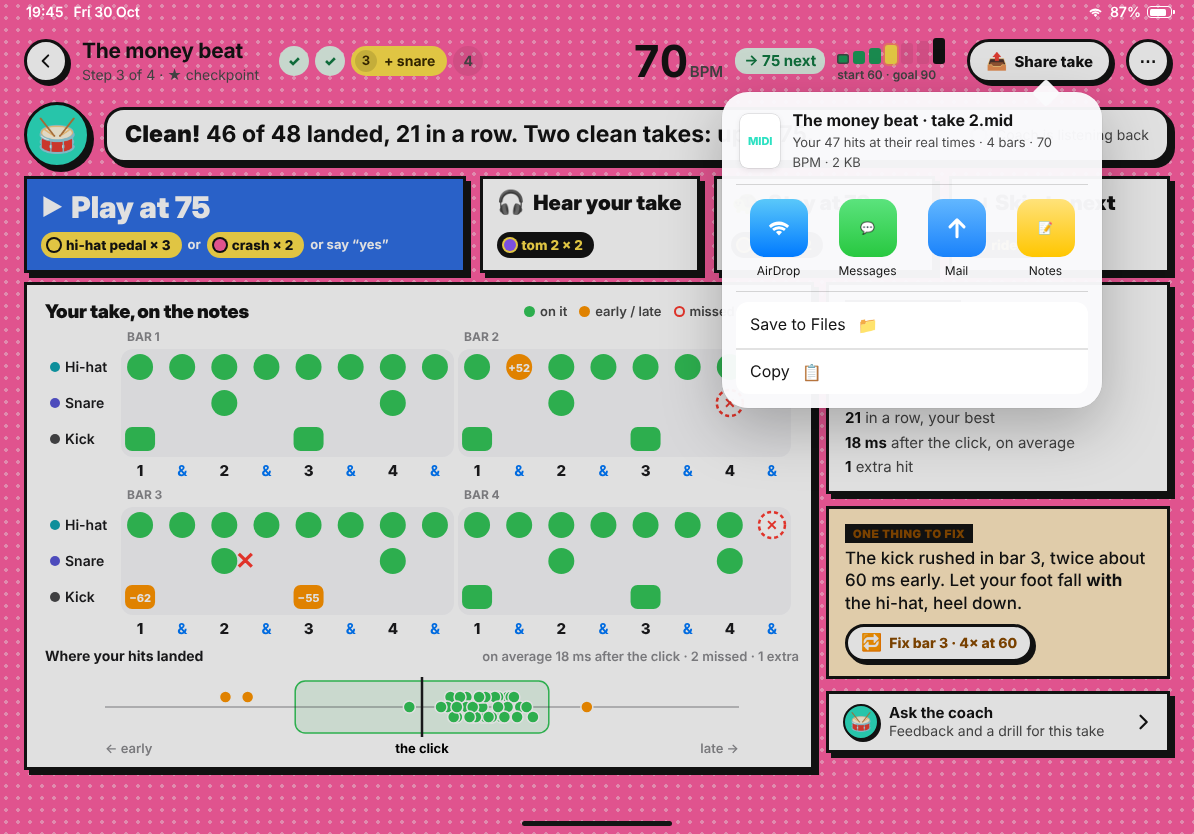
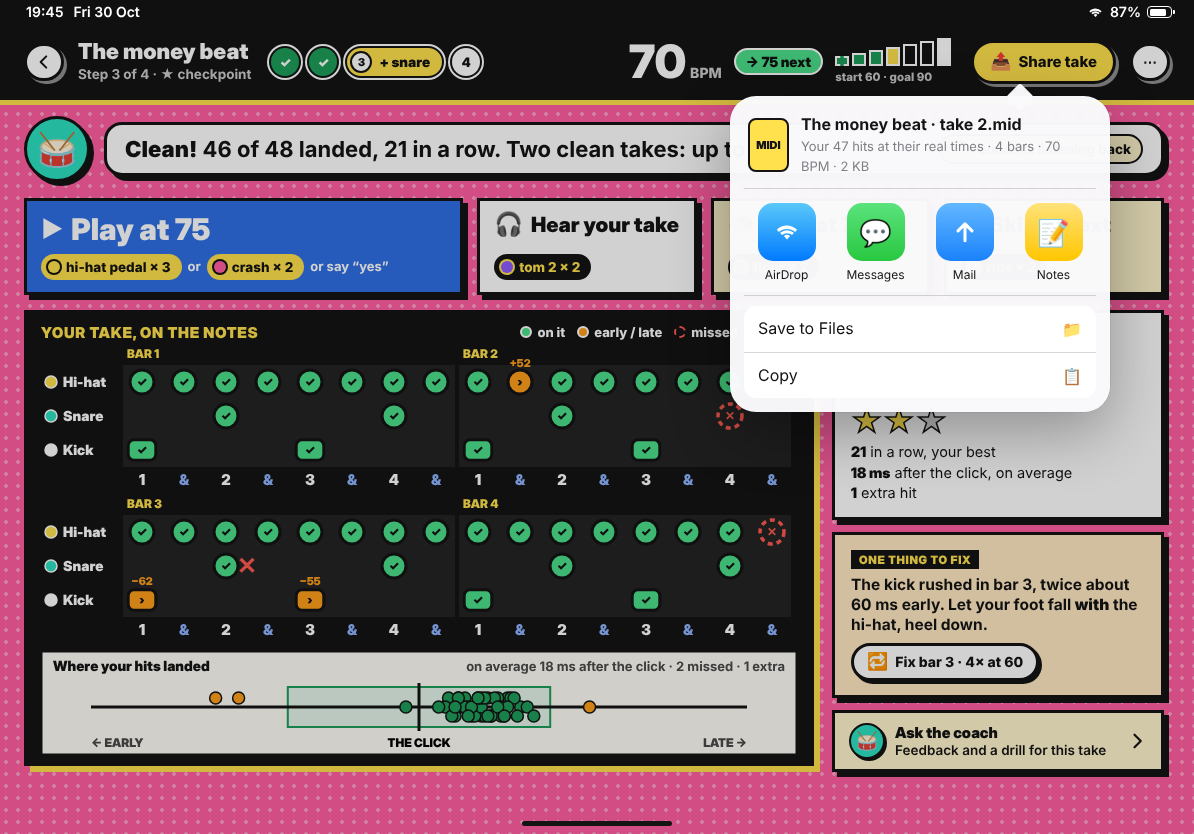
iPad mockups, web look: lesson results and Share take
Claude-Session: https://claude.ai/code/session_012qCzBwXtPvMyyk6zKAziwn

diff --git a/docs/mockups/ipad/lesson-results.html b/docs/mockups/ipad/lesson-results.html
@@ -5,78 +5,53 @@
 <meta name="viewport" content="width=1194">
 <title>Lesson results · iPad mockup</title>
 <link rel="stylesheet" href="ipad.css">
+<script src="mock.js"></script>
 <style>
-  .top { position: absolute; left: 24px; right: 24px; top: 30px; height: 62px; display: flex; align-items: center; gap: 14px; }
-  .title { white-space: nowrap; }
-  .title b { display: block; font-size: 21px; letter-spacing: -.015em; }
-  .title span { font-size: 14px; color: var(--label2); }
-  .steps { display: flex; gap: 6px; align-items: center; margin-left: 6px; white-space: nowrap; }
-  .steps i { width: 30px; height: 30px; border-radius: 15px; display: grid; place-items: center; font-style: normal; font-weight: 700; font-size: 14px; background: var(--fill); color: var(--label2); }
-  .steps i.done { background: var(--greenSoft); color: var(--greenInk); }
-  .steps i.done .ic { width: 14px; height: 14px; }
-  .steps i.cur { width: auto; padding: 0 12px 0 4px; gap: 7px; display: flex; background: var(--yellow); color: #3A2A00; }
-  .steps i.cur em { font-style: normal; width: 22px; height: 22px; border-radius: 11px; background: rgba(0,0,0,.12); display: grid; place-items: center; font-size: 13px; }
-  .sp { flex: 1; }
-  .tempo { display: flex; align-items: center; gap: 12px; }
-  .tempo .big { font-size: 44px; font-weight: 700; letter-spacing: -.03em; line-height: 1; }
-  .tempo .big small { font-size: 15px; font-weight: 600; color: var(--label2); margin-left: 3px; letter-spacing: 0; }
-  .tempo .up { font-size: 15px; font-weight: 700; color: var(--greenInk); background: var(--greenSoft); border-radius: 12px; padding: 3px 9px; }
-  .ladder { display: flex; flex-direction: column; gap: 3px; }
-  .rungs { display: flex; align-items: flex-end; gap: 4px; height: 26px; }
-  .rungs i { width: 12px; border-radius: 3px; background: var(--fill); }
-  .rungs i.start { box-shadow: inset 0 0 0 1.5px var(--label2); }
-  .rungs i.done { background: var(--green); }
-  .rungs i.at { background: var(--yellow); box-shadow: 0 0 0 2px rgba(255, 204, 0, .3); }
-  .rungs i.goalR { background: var(--label); }
-  .ladder span { font-size: 12px; color: var(--label2); font-weight: 600; }
+  .tempo .up { font: 900 14px var(--display); color: var(--line); background: #4BE08A; border: 2px solid #fff; border-radius: 999px; padding: 3px 10px; }
+  .verdict { position: absolute; left: 24px; right: 30px; top: 116px; }
+  .verdict .bubble { flex: 1; display: flex; align-items: center; gap: 14px; }
+  .verdict p { font-size: 22px; }
+  .verdict .think { margin-left: auto; display: flex; align-items: center; gap: 8px; font-size: 13.5px; font-weight: 800; white-space: nowrap; background: var(--panel2); border: 2px solid var(--line); border-radius: 999px; padding: 4px 10px; }
+  .resMoves { position: absolute; left: 24px; right: 30px; top: 198px; grid-template-columns: 2fr 1fr 1fr 1fr; }
 
-  .verdict { position: absolute; left: 24px; right: 24px; top: 102px; }
-  .verdict .bubble { flex: 1; background: #fff; border-radius: 20px; padding: 10px 18px; box-shadow: var(--shadow); display: flex; align-items: center; gap: 14px; }
-  .verdict p { font-size: 23px; }
-  .verdict .think { margin-left: auto; display: flex; align-items: center; gap: 8px; font-size: 14px; color: var(--label2); white-space: nowrap; }
-  .resMoves { position: absolute; left: 24px; right: 24px; top: 176px; grid-template-columns: 2fr 1fr 1fr 1fr; }
-  .resMoves .move { min-height: 92px; }
+  .notesPanel { position: absolute; left: 24px; top: 310px; width: 790px; height: 456px; padding: 10px 14px; background: var(--night); color: #fff; box-shadow: 6px 6px 0 var(--pop); }
+  .ph { display: flex; align-items: center; gap: 10px; margin-bottom: 2px; }
+  .ph h3 { font-size: 15px; color: var(--pop); letter-spacing: .05em; text-transform: uppercase; }
+  .legend { margin-left: auto; display: flex; gap: 12px; font-size: 13px; font-weight: 800; }
+  .legend i { display: inline-block; width: 12px; height: 12px; border-radius: 50%; margin-right: 5px; vertical-align: -1px; border: 2px solid #fff; }
+  .side { position: absolute; left: 832px; right: 30px; top: 310px; height: 456px; display: flex; flex-direction: column; gap: 12px; }
+  .take .landed { display: flex; align-items: baseline; gap: 8px; margin-top: 6px; }
+  .take .landed b { font: 900 52px/1 var(--display); }
+  .take .landed span { font-size: 15px; font-weight: 800; }
+  .stars { font-size: 30px; color: var(--pop); -webkit-text-stroke: 1.5px var(--line); letter-spacing: 1px; line-height: 1.1; }
+  .stars .off { color: #D6D6D6; }
+  .facts { margin-top: 4px; display: grid; gap: 1px; font-size: 14.5px; }
+  .facts b { font-family: var(--display); font-weight: 900; }
+  .fix { background: var(--orangeSoft); }
+  .fix p { font-size: 15.5px; font-weight: 700; margin: 6px 0 8px; line-height: 1.28; }
+  .ask { display: flex; align-items: center; gap: 10px; padding: 10px 14px; background: var(--panel2); }
+  .ask p { font-size: 13.5px; line-height: 1.25; font-weight: 600; }
+  .ask p b { display: block; font: 900 15px var(--display); }
 
-  .notesPanel { position: absolute; left: 24px; top: 282px; width: 790px; height: 488px; padding: 14px 18px; }
-  .ph { display: flex; align-items: center; gap: 10px; }
-  .ph h3 { font-size: 19px; letter-spacing: -.01em; }
-  .legend { margin-left: auto; display: flex; gap: 12px; font-size: 13px; color: var(--label2); font-weight: 600; }
-  .legend i { display: inline-block; width: 11px; height: 11px; border-radius: 50%; margin-right: 5px; vertical-align: -1px; }
-  .side { position: absolute; left: 826px; right: 24px; top: 282px; height: 488px; display: flex; flex-direction: column; gap: 12px; }
-  .take { padding: 14px 16px; }
-  .take .landed { display: flex; align-items: baseline; gap: 8px; }
-  .take .landed b { font-size: 46px; font-weight: 700; letter-spacing: -.03em; line-height: 1; }
-  .take .landed span { font-size: 16px; color: var(--label2); font-weight: 600; }
-  .stars { font-size: 26px; color: var(--yellow); letter-spacing: 1px; }
-  .stars .off { color: rgba(120,120,128,.25); }
-  .facts { margin-top: 8px; display: grid; gap: 4px; font-size: 15px; }
-  .facts span { color: var(--label2); }
-  .fix { padding: 14px 16px; background: var(--orangeSoft); box-shadow: none; }
-  .fix .kicker { color: var(--orangeInk); }
-  .fix p { font-size: 17px; font-weight: 500; margin: 4px 0 10px; line-height: 1.3; }
-  .ask { padding: 10px 14px; display: flex; align-items: center; gap: 10px; }
-  .ask p { font-size: 14px; color: var(--label2); line-height: 1.25; }
-  .ask p b { color: var(--label); display: block; font-size: 15px; }
-
-  /* Share sheet popover (D5: Share take = MIDI export via the share sheet) */
-  .pop { display: none; position: absolute; z-index: 20; right: 92px; top: 92px; width: 380px; background: rgba(250, 250, 252, .97); border-radius: 26px;
-    box-shadow: 0 20px 60px rgba(0, 0, 0, .25), 0 0 0 .5px rgba(0,0,0,.08); padding: 14px; }
-  #share:target ~ .pop { display: block; }
-  #share:target ~ .scrim { display: block; }
-  .scrim { display: none; position: absolute; inset: 0; z-index: 15; background: rgba(0, 0, 0, .12); }
-  .pop::before { content: ""; position: absolute; top: -9px; right: 46px; width: 20px; height: 20px; background: rgba(250, 250, 252, .97); transform: rotate(45deg); border-radius: 3px; }
-  .file { display: flex; gap: 12px; align-items: center; padding: 4px 4px 12px; border-bottom: .5px solid var(--sep); }
-  .file .fi { width: 46px; height: 54px; border-radius: 8px; background: #fff; box-shadow: 0 0 0 .5px var(--sep), 0 2px 6px rgba(0,0,0,.08); display: grid; place-items: center; color: var(--snare); font-weight: 800; font-size: 11px; }
+  /* The share sheet is iOS's own (D5: Share take = MIDI export via the share sheet), so it keeps the system look. */
+  .pop { display: none; position: absolute; z-index: 20; right: 84px; top: 96px; width: 380px; background: rgba(250, 250, 252, .98); border-radius: 26px;
+    box-shadow: 0 20px 60px rgba(0, 0, 0, .3), 0 0 0 .5px rgba(0,0,0,.1); padding: 14px; font-family: var(--sf); }
+  #share:target ~ .pop, #share:target ~ .scrim { display: block; }
+  .scrim { display: none; position: absolute; inset: 0; z-index: 15; background: rgba(0, 0, 0, .18); }
+  .pop::before { content: ""; position: absolute; top: -9px; right: 80px; width: 20px; height: 20px; background: rgba(250, 250, 252, .98); transform: rotate(45deg); border-radius: 3px; }
+  .file { display: flex; gap: 12px; align-items: center; padding: 4px 4px 12px; border-bottom: .5px solid rgba(60,60,67,.2); }
+  .file .fi { width: 46px; height: 54px; border-radius: 8px; background: var(--pop); border: 2px solid var(--line); display: grid; place-items: center; font: 900 11px var(--display); }
   .file b { display: block; font-size: 16px; }
-  .file span { font-size: 13px; color: var(--label2); }
-  .targets { display: grid; grid-template-columns: repeat(4, 1fr); gap: 4px; padding: 14px 0 12px; border-bottom: .5px solid var(--sep); }
+  .file span { font-size: 13px; color: rgba(60,60,67,.65); }
+  .targets { display: grid; grid-template-columns: repeat(4, 1fr); gap: 4px; padding: 14px 0 12px; border-bottom: .5px solid rgba(60,60,67,.2); }
   .targets div { display: flex; flex-direction: column; align-items: center; gap: 6px; font-size: 12px; }
-  .targets i { width: 58px; height: 58px; border-radius: 15px; display: grid; place-items: center; color: #fff; }
+  .targets i { width: 58px; height: 58px; border-radius: 15px; display: grid; place-items: center; color: #fff; font-size: 26px; font-style: normal; }
   .targets i .ic { width: 28px; height: 28px; }
   .acts { margin-top: 10px; }
-  .acts .li { background: #fff; min-height: 46px; }
+  .acts .li { background: #fff; min-height: 46px; border: 0; }
+  .acts .li + .li { border-top: .5px solid rgba(60,60,67,.2); }
   .acts .li:first-child { border-radius: 12px 12px 0 0; } .acts .li:last-child { border-radius: 0 0 12px 12px; }
-  .acts .li .ic { margin-left: auto; color: var(--label); width: 20px; height: 20px; }
+  .acts .li .em { margin-left: auto; }
 </style>
 </head>
 <body>
@@ -85,16 +60,16 @@
   <div class="status"><span>19:45</span><span class="date">Fri 30 Oct</span><span class="sp"></span><span class="ic i-wifi"></span><span>87%</span><span class="batt"><i style="width:84%"></i></span></div>
 
   <header class="top">
-    <span class="btn glass round"><span class="ic i-chevl"></span></span>
+    <span class="btn round sm" style="width:40px"><span class="ic i-chevl"></span></span>
     <div class="title"><b>The money beat</b><span>Step 3 of 4 · ★ checkpoint</span></div>
-    <div class="steps"><i class="done"><span class="em ck">✓</span></i><i class="done"><span class="em ck">✓</span></i><i class="cur"><em>3</em>+ snare</i><i>4</i></div>
+    <div class="steps"><i class="done">✓</i><i class="done">✓</i><i class="cur"><em>3</em>+ snare</i><i>4</i></div>
     <span class="sp"></span>
     <div class="tempo">
       <div class="big num">70<small>BPM</small></div><span class="up">→ 75 next</span>
-      <div class="ladder"><div class="rungs"><i class="start done" style="height:10px"></i><i class="done" style="height:13px"></i><i class="done" style="height:16px"></i><i class="at" style="height:19px"></i><i style="height:21px"></i><i style="height:23px"></i><i class="goalR" style="height:26px"></i></div><span>start 60 · goal 90</span></div>
+      <div class="ladder"><div class="rungs"><i class="start done" style="height:10px"></i><i class="done" style="height:13px"></i><i class="done" style="height:16px"></i><i class="at" style="height:19px"></i><i style="height:22px"></i><i style="height:25px"></i><i class="goal" style="height:28px"></i></div><span>start 60 · goal 90</span></div>
     </div>
-    <span class="btn glass" style="margin-left:8px"><span class="em">📤</span>Share take</span>
-    <span class="btn glass round"><span class="em">⋯</span></span>
+    <span class="btn" style="margin-left:6px;background:var(--pop)"><span class="em">📤</span>Share take</span>
+    <span class="btn round sm" style="width:40px">⋯</span>
   </header>
 
   <div class="coach verdict">
@@ -106,13 +81,13 @@
   <div class="moves resMoves">
     <div class="move go"><b><span class="em">▶</span>Play at 75</b><div class="gs"><span class="gest on-tint g-hhp">hi-hat pedal × 3</span><span class="or">or</span><span class="gest on-tint g-crash">crash × 2</span><span class="or">or say “yes”</span></div></div>
     <div class="move"><b><span class="em">🎧</span>Hear your take</b><div class="gs"><span class="gest g-tom2">tom 2 × 2</span></div></div>
-    <div class="move"><b><span class="em">🐢</span>Stay at 70</b><div class="gs"><span class="gest g-floor">floor × 2</span></div></div>
-    <div class="move"><b><span class="em">⏭</span>Skip to next</b><div class="gs"><span class="gest g-ride">ride × 2</span></div></div>
+    <div class="move alt"><b><span class="em">🐢</span>Stay at 70</b><div class="gs"><span class="gest g-floor">floor × 2</span></div></div>
+    <div class="move alt"><b><span class="em">⏭</span>Skip to next</b><div class="gs"><span class="gest g-ride">ride × 2</span></div></div>
   </div>
 
   <section class="card notesPanel">
     <div class="ph"><h3>Your take, on the notes</h3>
-      <div class="legend"><span><i style="background:#34C759"></i>on it</span><span><i style="background:#FF9500"></i>early / late</span><span><i style="box-shadow:inset 0 0 0 2px #FF3B30"></i>missed</span><span style="color:#FF3B30">✕ extra</span></div></div>
+      <div class="legend"><span><i style="background:#4BE08A"></i>on it</span><span><i style="background:#FF9F1C"></i>early / late</span><span><i style="background:none;border:2px dashed #FF5A4F"></i>missed</span><span style="color:#FF5A4F">✕ extra</span></div></div>
     <div id="notes"></div>
   </section>
 
@@ -121,12 +96,12 @@
       <div class="kicker">Take 2 · 70 BPM</div>
       <div class="landed"><b class="num">46</b><span>of 48 notes landed</span></div>
       <div class="stars">★★<span class="off">★</span></div>
-      <div class="facts"><div><b>21</b> <span>in a row, your best</span></div><div><b>18 ms</b> <span>after the click, on average</span></div><div><b>1</b> <span>extra hit</span></div></div>
+      <div class="facts"><div><b>21</b> in a row, your best</div><div><b>18 ms</b> after the click, on average</div><div><b>1</b> extra hit</div></div>
     </section>
     <section class="card fix">
       <div class="kicker">One thing to fix</div>
       <p>The kick rushed in bar 3, twice about 60 ms early. Let your foot fall <b>with</b> the hi-hat, heel down.</p>
-      <span class="btn sm" style="background:#fff;color:var(--orangeInk)"><span class="em">🔁</span>Fix bar 3 · 4× at 60</span>
+      <span class="btn sm"><span class="em">🔁</span>Fix bar 3 · 4× at 60</span>
     </section>
     <section class="card ask">
       <div class="avatar sm">🥁</div>
@@ -140,9 +115,9 @@
     <div class="file"><div class="fi">MIDI</div><div><b>The money beat · take 2.mid</b><span>Your 47 hits at their real times · 4 bars · 70 BPM · 2 KB</span></div></div>
     <div class="targets">
       <div><i style="background:linear-gradient(#5AC8FA,#007AFF)"><span class="ic i-wifi"></span></i>AirDrop</div>
-      <div><i style="background:linear-gradient(#5BE37D,#28C840)"><span class="em">💬</span></i>Messages</div>
+      <div><i style="background:linear-gradient(#5BE37D,#28C840)">💬</i>Messages</div>
       <div><i style="background:linear-gradient(#62B7FF,#1A82FB)"><span class="ic i-send"></span></i>Mail</div>
-      <div><i style="background:linear-gradient(#FFE27A,#FFC600)"><span class="em">📝</span></i>Notes</div>
+      <div><i style="background:linear-gradient(#FFE27A,#FFC600)">📝</i>Notes</div>
     </div>
     <div class="acts">
       <div class="li">Save to Files<span class="em">📁</span></div>
@@ -153,60 +128,47 @@
   <div class="home"></div>
 </div>
 <script>
-// The take's 4 bars, two bars per row; every note shows how it landed (src/engine/takeMarks.ts).
-const C = { hihat: '#0FA3B1', snare: '#5856D6', kick: '#48484A' };
-const marks = { kick16: ['early', '−62'], kick20: ['early', '−55'], hihat9: ['late', '+52'], hihat31: ['miss'], snare14: ['miss'] };
-const extras = [{ lane: 'snare', t: 18.5 }];
-const lanes = ['hihat', 'snare', 'kick'], NAMES = { hihat: 'Hi-hat', snare: 'Snare', kick: 'Kick' };
-function row(bars, y0, W) {
-  const left = 74, colW = (W - left - 6) / 16, laneH = 36;
-  const x = t => left + colW * (t - bars * 8) + colW / 2, y = i => y0 + 22 + laneH * i + laneH / 2;
+// The take's 4 bars, two bars per row, on the black panel; every note says how it landed (src/engine/takeMarks.ts).
+const marks = { kick16: ['off', '−62'], kick20: ['off', '−55'], hihat9: ['off', '+52'], hihat31: ['miss'], snare14: ['miss'] };
+const lanes = ['hihat', 'snare', 'kick'];
+function row(first, y0, W) {
+  const left = 80, colW = (W - left - 4) / 16, laneH = 34;
+  const x = t => left + colW * (t - first * 8) + colW / 2, y = i => y0 + 20 + laneH * i + laneH / 2;
   let s = '';
   for (let b = 0; b < 2; b++) {
     const bx = left + b * 8 * colW;
-    s += `<rect x="${bx + 2}" y="${y0 + 22}" width="${8 * colW - 4}" height="${laneH * 3}" rx="12" fill="#F6F6F9"/>`;
-    s += `<text x="${bx + 8}" y="${y0 + 14}" font-size="12" font-weight="700" fill="rgba(60,60,67,.6)">BAR ${bars + b + 1}</text>`;
+    s += `<rect x="${bx + 2}" y="${y0 + 20}" width="${8 * colW - 4}" height="${laneH * 3}" fill="#ffffff12"/>`;
+    s += `<text x="${bx + 6}" y="${y0 + 13}" font-size="12" font-weight="900" fill="${POP}">BAR ${first + b + 1}</text>`;
   }
-  lanes.forEach((l, i) => { s += `<circle cx="10" cy="${y(i)}" r="5" fill="${C[l]}"/><text x="20" y="${y(i) + 5}" font-size="14" font-weight="600" fill="#1C1C1E">${NAMES[l]}</text>`; });
-  for (let t = bars * 8; t < bars * 8 + 16; t++) {
-    const e = t % 8;
-    lanes.forEach((l, i) => {
-      const has = l === 'hihat' || (l === 'kick' && (e === 0 || e === 4)) || (l === 'snare' && (e === 2 || e === 6));
-      if (!has) return;
-      const m = marks[l + t], kind = m ? m[0] : 'ok', cx = x(t), cy = y(i);
-      const fill = kind === 'ok' ? '#34C759' : kind === 'miss' ? '#fff' : '#FF9500';
-      const stroke = kind === 'miss' ? 'stroke="#FF3B30" stroke-width="2.5" stroke-dasharray="4 3"' : '';
-      if (l === 'kick') s += `<rect x="${cx - 15}" y="${cy - 12}" width="30" height="24" rx="7" fill="${fill}" ${stroke}/>`;
-      else s += `<circle cx="${cx}" cy="${cy}" r="13" fill="${fill}" ${stroke}/>`;
-      if (kind === 'miss') s += `<text x="${cx}" y="${cy + 5}" text-anchor="middle" font-size="14" font-weight="800" fill="#FF3B30">✕</text>`;
-      if (kind === 'early' || kind === 'late') s += `<text x="${cx}" y="${cy + 4.5}" text-anchor="middle" font-size="11" font-weight="800" fill="#fff">${m[1]}</text>`;
-    });
+  lanes.forEach((l, i) => { s += `<circle cx="10" cy="${y(i)}" r="6" fill="${DC[l]}" stroke="#fff" stroke-width="1.5"/><text x="22" y="${y(i) + 5}" font-size="14" font-weight="900" fill="#fff">${NAME[l]}</text>`; });
+  for (const n of moneyBeat(4)) {
+    if (n.t < first * 8 || n.t >= first * 8 + 16) continue;
+    const m = marks[n.lane + n.t], cx = x(n.t), cy = y(lanes.indexOf(n.lane));
+    s += gem(n.lane, cx, cy, 12, m ? m[0] : 'ok');
+    if (m && m[1]) s += `<text x="${cx}" y="${cy - 15}" text-anchor="middle" font-size="11" font-weight="900" fill="#FF9F1C">${m[1]}</text>`;
   }
-  for (const ex of extras) if (ex.t >= bars * 8 && ex.t < bars * 8 + 16) {
-    const cx = x(ex.t), cy = y(lanes.indexOf(ex.lane));
-    s += `<text x="${cx}" y="${cy + 8}" text-anchor="middle" font-size="24" font-weight="800" fill="#FF3B30">✕</text>`;
-  }
-  for (let t = bars * 8; t < bars * 8 + 16; t++) {
+  if (first === 2) s += `<text x="${x(18.5)}" y="${y(1) + 8}" text-anchor="middle" font-size="24" font-weight="900" fill="#FF5A4F">✕</text>`;
+  for (let t = first * 8; t < first * 8 + 16; t++) {
     const e = t % 8, isNum = e % 2 === 0;
-    s += `<text x="${x(t)}" y="${y0 + 22 + laneH * 3 + 19}" text-anchor="middle" font-size="15" font-weight="${isNum ? 800 : 700}" fill="${isNum ? '#1C1C1E' : '#007AFF'}">${isNum ? e / 2 + 1 : '&'}</text>`;
+    s += `<text x="${x(t)}" y="${y0 + 20 + laneH * 3 + 18}" text-anchor="middle" font-size="15" font-weight="900" fill="${isNum ? '#fff' : '#8FB4FF'}">${isNum ? e / 2 + 1 : '&amp;'}</text>`;
   }
   return s;
 }
 function timing(y0, W) {
-  // Where every hit landed against the click; the green band is "right on it" (±40 ms here).
+  // Where every hit landed against the click; the green band is "right on it".
   const offs = [12, 18, 22, 9, 31, 25, 14, 52, 19, 27, 8, 16, 21, 33, 11, 24, 15, 20, 28, 6, 17, 23, 13, 30, -62, 19, 26, -55, 14, 22, 18, 25, 10, 29, 16, 21, 12, 27, 35, 19, 24, 15, 20, 11, 26, 18, -4];
-  const mid = W / 2, sc = (W / 2 - 60) / 100, x = ms => mid + ms * sc;
-  let s = `<text x="0" y="${y0}" font-size="14" font-weight="700" fill="#1C1C1E">Where your hits landed</text><text x="${W}" y="${y0}" text-anchor="end" font-size="13" font-weight="600" fill="rgba(60,60,67,.6)">on average 18 ms after the click · 2 missed · 1 extra</text>`;
-  const cy = y0 + 46;
-  s += `<rect x="${x(-40)}" y="${cy - 26}" width="${x(40) - x(-40)}" height="52" rx="10" fill="rgba(52,199,89,.12)" stroke="#34C759" stroke-width="1.5"/>`;
-  s += `<line x1="${x(-100)}" x2="${x(100)}" y1="${cy}" y2="${cy}" stroke="rgba(60,60,67,.3)" stroke-width="2"/>`;
-  s += `<line x1="${mid}" x2="${mid}" y1="${cy - 30}" y2="${cy + 30}" stroke="#1C1C1E" stroke-width="2.5"/>`;
-  offs.forEach((ms, k) => { s += `<circle cx="${x(ms)}" cy="${cy + ((k % 3) - 1) * 10}" r="6" fill="${Math.abs(ms) <= 40 ? '#34C759' : '#FF9500'}" stroke="#fff" stroke-width="1.5"/>`; });
-  s += `<text x="${x(-100)}" y="${cy + 46}" font-size="13" font-weight="600" fill="rgba(60,60,67,.6)">← early</text><text x="${mid}" y="${cy + 46}" text-anchor="middle" font-size="13" font-weight="700">the click</text><text x="${x(100)}" y="${cy + 46}" text-anchor="end" font-size="13" font-weight="600" fill="rgba(60,60,67,.6)">late →</text>`;
+  const mid = W / 2, sc = (W / 2 - 50) / 100, x = ms => mid + ms * sc, h = 104;
+  let s = `<rect x="0" y="${y0}" width="${W}" height="${h}" fill="#FFFDF6" stroke="${INK}" stroke-width="3"/>`;
+  s += `<text x="12" y="${y0 + 20}" font-size="14" font-weight="900" fill="${INK}">Where your hits landed</text><text x="${W - 12}" y="${y0 + 20}" text-anchor="end" font-family="Inter, sans-serif" font-size="13" font-weight="700" fill="#4A4A4A">on average 18 ms after the click · 2 missed · 1 extra</text>`;
+  const cy = y0 + 56;
+  s += `<rect x="${x(-40)}" y="${cy - 20}" width="${x(40) - x(-40)}" height="40" fill="#E3F5EA" stroke="#1E9E5A" stroke-width="2"/>`;
+  s += `<line x1="${x(-100)}" x2="${x(100)}" y1="${cy}" y2="${cy}" stroke="${INK}" stroke-width="3"/><line x1="${mid}" x2="${mid}" y1="${cy - 24}" y2="${cy + 24}" stroke="${INK}" stroke-width="3"/>`;
+  offs.forEach((ms, k) => { s += `<circle cx="${x(ms)}" cy="${cy + ((k % 3) - 1) * 9}" r="6" fill="${Math.abs(ms) <= 40 ? '#1E9E5A' : '#FF9F1C'}" stroke="${INK}" stroke-width="1.5"/>`; });
+  s += `<text x="${x(-100)}" y="${cy + 40}" font-size="12" font-weight="900" fill="#4A4A4A">← EARLY</text><text x="${mid}" y="${cy + 40}" text-anchor="middle" font-size="12" font-weight="900">THE CLICK</text><text x="${x(100)}" y="${cy + 40}" text-anchor="end" font-size="12" font-weight="900" fill="#4A4A4A">LATE →</text>`;
   return s;
 }
-const W = 754;
-document.getElementById('notes').innerHTML = `<svg width="${W}" height="440" viewBox="0 0 ${W} 440" font-family="Inter, -apple-system, sans-serif">${row(0, 2, W)}${row(2, 160, W)}${timing(336, W)}</svg>`;
+const W = 756;
+document.getElementById('notes').innerHTML = `<svg width="${W}" height="418" viewBox="0 0 ${W} 418" font-family='${FONT}' style="display:block">${row(0, 0, W)}${row(2, 150, W)}${timing(306, W)}</svg>`;
 </script>
 </body>
 </html>

diff --git a/docs/mockups/ipad/ipad.css b/docs/mockups/ipad/ipad.css
@@ -152,6 +152,31 @@ h1, h2, h3, h4 { margin: 0; font-family: var(--display); font-weight: 900; lette
 .move.alt { background: var(--panel2); }
 .move.dark { background: var(--night); color: var(--nightText); }
 
+/* ---------- Full-screen player: the web's black header bar as its top bar ---------- */
+.top { position: absolute; left: 0; right: 0; top: 0; height: 100px; background: var(--night); color: #fff; border-bottom: 3px solid var(--line); box-shadow: 0 5px 0 var(--pop);
+  display: flex; align-items: center; gap: 14px; padding: 26px 24px 0; }
+.title { white-space: nowrap; }
+.title b { display: block; font: 900 22px var(--display); }
+.title span { font-size: 13.5px; color: #ccc; font-weight: 700; }
+.steps { display: flex; gap: 6px; align-items: center; margin-left: 4px; white-space: nowrap; }
+.steps i { width: 32px; height: 32px; border-radius: 50%; display: grid; place-items: center; font: 900 13px var(--display); font-style: normal; background: var(--panel); color: var(--line); border: 2.5px solid var(--line); box-shadow: 0 0 0 2px #fff; }
+.steps i.done { background: var(--good); color: #fff; }
+.steps i.cur { width: auto; padding: 0 12px 0 3px; gap: 7px; display: flex; background: var(--pop); border-radius: 999px; font-size: 14px; }
+.steps i.cur em { font-style: normal; width: 22px; height: 22px; border-radius: 50%; border: 2px solid var(--line); background: #fff; display: grid; place-items: center; font-size: 11px; }
+.sp { flex: 1; }
+.tempo { display: flex; align-items: center; gap: 12px; }
+.tempo .big { font: 900 46px/1 var(--display); }
+.tempo .big small { font: 800 14px var(--sf); color: #ccc; margin-left: 4px; }
+.ladder { display: flex; flex-direction: column; gap: 4px; }
+.rungs { display: flex; align-items: flex-end; gap: 3px; }
+.rungs i { width: 14px; border: 2px solid #fff; background: transparent; }
+.rungs i.start { border-style: dashed; } .rungs i.done { background: var(--good); } .rungs i.at { background: var(--pop); } .rungs i.goal { background: #fff; }
+.ladder span { font-size: 11.5px; color: #ccc; font-weight: 800; }
+.stopGroup { display: flex; gap: 10px; align-items: center; }
+.top .btn.red { height: 52px; font-size: 20px; padding: 0 22px; font-family: var(--display); font-weight: 900; box-shadow: 3px 3px 0 #fff; }
+.top .btn { box-shadow: 3px 3px 0 #ffffff88; }
+.top .seg { box-shadow: 3px 3px 0 #ffffff88; }
+
 /* ---------- Icons kept from v1 (small UI glyphs only; everything else is emoji, as on the web) ---------- */
 .ic { display: inline-block; width: 20px; height: 20px; background: currentColor; flex: none;
   -webkit-mask: var(--m) center / contain no-repeat; mask: var(--m) center / contain no-repeat; }

diff --git a/docs/mockups/ipad/lesson-take.html b/docs/mockups/ipad/lesson-take.html
@@ -15,30 +15,6 @@
   #countin:target ~ * .v-countin, #countin:target ~ .v-countin { display: flex; }
   #countin:target ~ .hint.v-take, #countin:target ~ * .barNow.v-take, #countin:target ~ * .lh b { display: none; }
 
-  /* the web's black header bar, as the player's top bar */
-  .top { position: absolute; left: 0; right: 0; top: 0; height: 100px; background: var(--night); color: #fff; border-bottom: 3px solid var(--line); box-shadow: 0 5px 0 var(--pop);
-    display: flex; align-items: center; gap: 14px; padding: 26px 24px 0; }
-  .title { white-space: nowrap; }
-  .title b { display: block; font: 900 22px var(--display); }
-  .title span { font-size: 13.5px; color: #ccc; font-weight: 700; }
-  .steps { display: flex; gap: 6px; align-items: center; margin-left: 4px; white-space: nowrap; }
-  .steps i { width: 32px; height: 32px; border-radius: 50%; display: grid; place-items: center; font: 900 13px var(--display); font-style: normal; background: var(--panel); color: var(--line); border: 2.5px solid var(--line); box-shadow: 0 0 0 2px #fff; }
-  .steps i.done { background: var(--good); color: #fff; }
-  .steps i.cur { width: auto; padding: 0 12px 0 3px; gap: 7px; display: flex; background: var(--pop); border-radius: 999px; font-size: 14px; }
-  .steps i.cur em { font-style: normal; width: 22px; height: 22px; border-radius: 50%; border: 2px solid var(--line); background: #fff; display: grid; place-items: center; font-size: 11px; }
-  .sp { flex: 1; }
-  .tempo { display: flex; align-items: center; gap: 12px; }
-  .tempo .big { font: 900 46px/1 var(--display); }
-  .tempo .big small { font: 800 14px var(--sf); color: #ccc; margin-left: 4px; }
-  .ladder { display: flex; flex-direction: column; gap: 4px; }
-  .rungs { display: flex; align-items: flex-end; gap: 3px; }
-  .rungs i { width: 14px; border: 2px solid #fff; background: transparent; }
-  .rungs i.start { border-style: dashed; } .rungs i.done { background: var(--good); } .rungs i.at { background: var(--pop); } .rungs i.goal { background: #fff; }
-  .ladder span { font-size: 11.5px; color: #ccc; font-weight: 800; }
-  .stopGroup { display: flex; gap: 10px; align-items: center; }
-  .top .btn.red { height: 52px; font-size: 20px; padding: 0 22px; font-family: var(--display); font-weight: 900; box-shadow: 3px 3px 0 #fff; }
-  .top .btn { box-shadow: 3px 3px 0 #ffffff88; }
-  .top .seg { box-shadow: 3px 3px 0 #ffffff88; }
 
   .hint { position: absolute; left: 24px; right: 24px; top: 118px; height: 58px; background: var(--pop); border: 3px solid var(--line); box-shadow: 5px 5px 0 var(--line);
     display: flex; align-items: center; gap: 14px; padding: 0 18px; font: 900 26px var(--display); }
